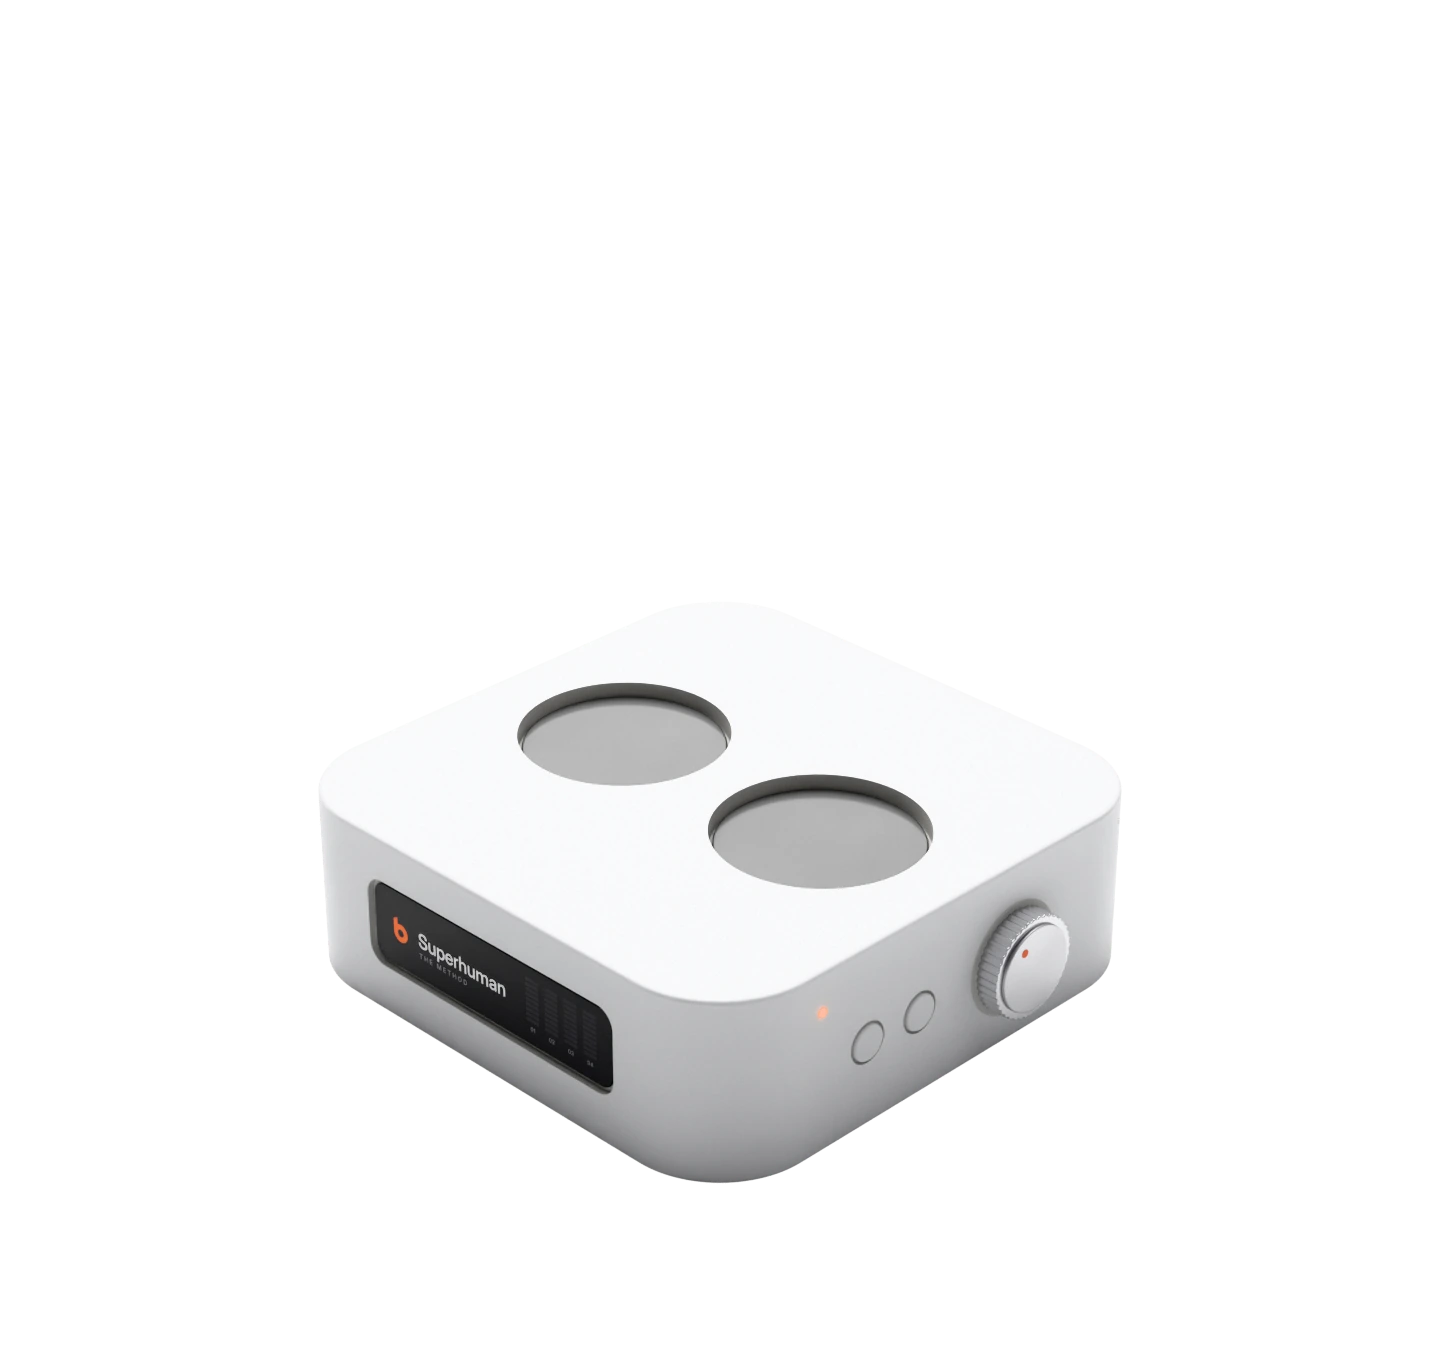
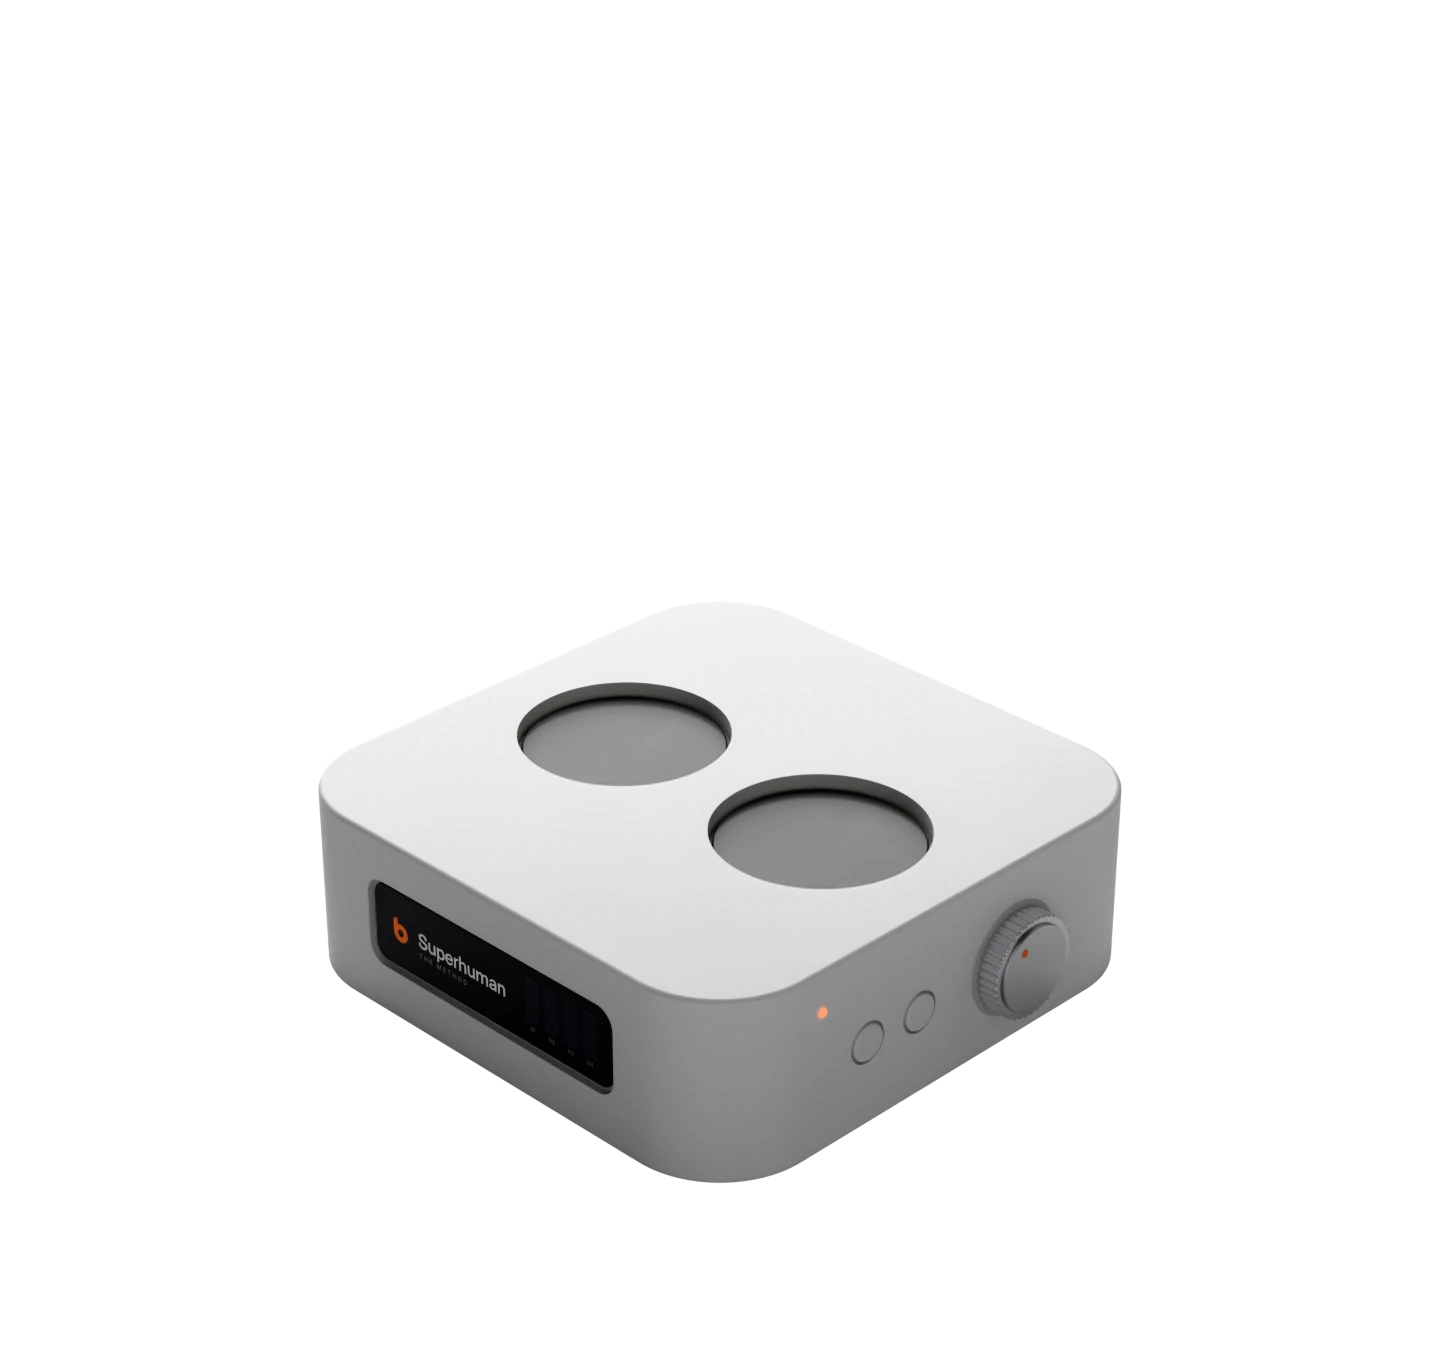
[build] method device v9 (balanced lighting renders, meter colours matched to the new screen), timing unchanged

Changed region(s): [[0.2188, 0.4941, 0.7812, 0.8647]]

diff --git a/public/site/v13/method/device.js b/public/site/v13/method/device.js
@@ -79,7 +79,7 @@ var finish = stage.querySelector('.md-finish'), screenEl = stage.querySelector('
 function fitScreen() { var s = stage.clientWidth / 1100; screenEl.style.transform = 'translate(' + (-200 * s) + 'px,' + (-200 * s) + 'px) scale(' + s + ')'; }
 var M = { x0: 10, top: 8, colw: 104, gap: 52, segs: 9, segh: 24, seggap: 9, r: 7 };
 var awake = [1, 0, 0, 0], level = [0, 0, 0, 0], peak = [0, 0, 0, 0], hold = [0, 0, 0, 0], seed = [0, 1.7, 3.1, 4.6];
-var LIT = 'rgb(230,104,50)', HOT = 'rgb(246,176,140)', PEAK = 'rgba(240,140,96,.9)'; // matched to the v8 rendered screen
+var LIT = 'rgb(186,80,30)', HOT = 'rgb(222,154,116)', PEAK = 'rgba(208,122,82,.9)'; // matched to the v9 rendered screen
 function rr(x, y, w, h, r) { ctx.beginPath(); ctx.moveTo(x + r, y); ctx.arcTo(x + w, y, x + w, y + h, r); ctx.arcTo(x + w, y + h, x, y + h, r); ctx.arcTo(x, y + h, x, y, r); ctx.arcTo(x, y, x + w, y, r); ctx.closePath(); ctx.fill(); }
 function sig(i, t) { var s = seed[i]; return cl(.52 + .22 * Math.sin(t * 1.9 + s) + .14 * Math.sin(t * 5.3 + s * 2.3) + .12 * Math.sin(t * 11.7 + s * .7) + (Math.random() < .04 ? .3 : 0)); }
 function draw(t, dt) {
